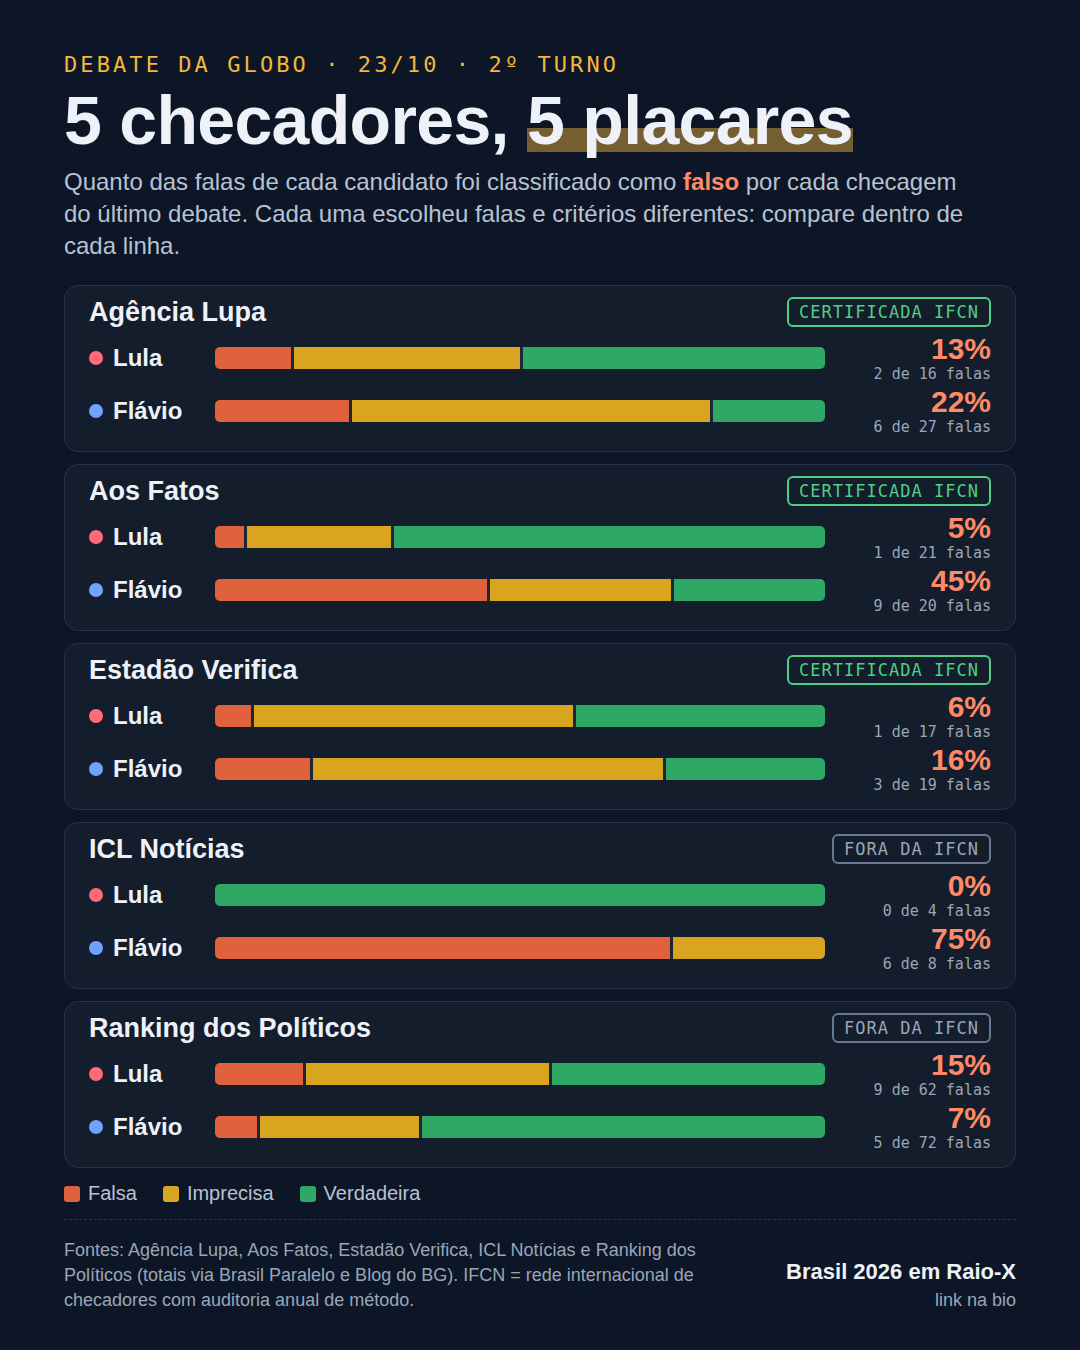
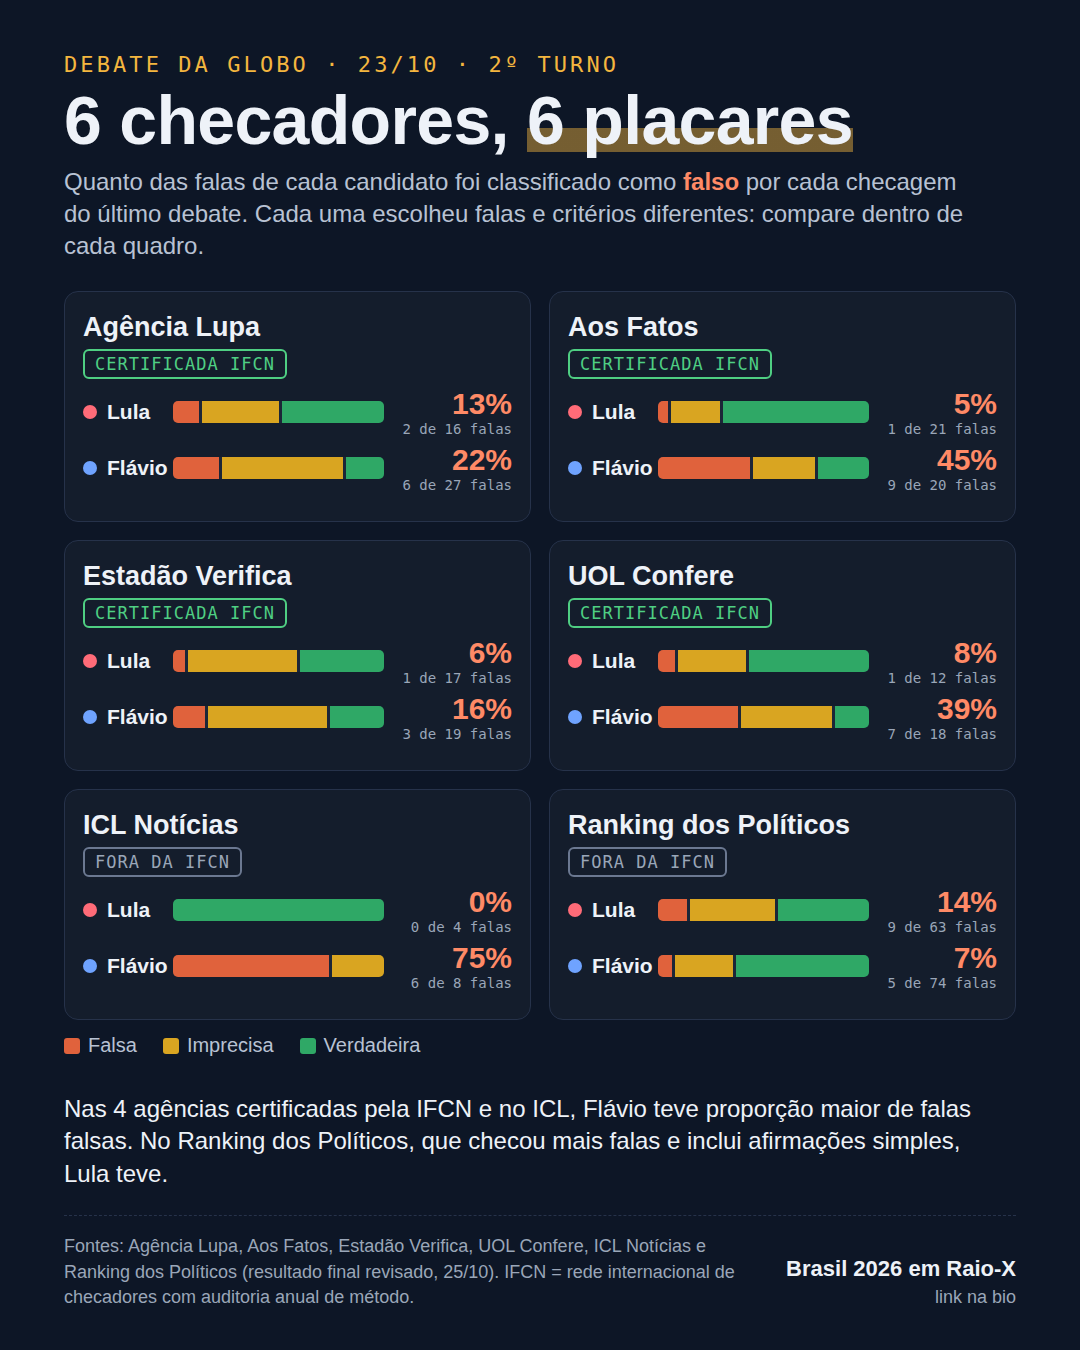
Comparação de checadores: inclui UOL Confere e placar final revisado do Ranking
Claude-Session: https://claude.ai/code/session_01Q44rKJupnzX5HpGh6p6EQf

diff --git a/brasil-2026/index.html b/brasil-2026/index.html
@@ -1415,13 +1415,14 @@ const CX=[
  {nm:"Agência Lupa",tag:"IFCN",ok:1,url:"https://www.agencialupa.org/checagem/2026/10/23/ao-vivo-checagem-do-ultimo-debate-entre-lula-e-flavio-bolsonaro-no-segundo-turno/",d:"Selos próprios (falso, exagerado, falta contexto, insustentável…).",lula:[2,6,8],flavio:[6,16,5]},
  {nm:"Aos Fatos",tag:"IFCN",ok:1,url:"https://www.aosfatos.org/noticias/checamos-flavio-bolsonaro-lula-debate-globo/",d:"Classificação feita por este guia a partir do texto de cada checagem; 5 itens sem veredito claro ficaram de fora.",lula:[1,5,15],flavio:[9,6,5]},
  {nm:"Estadão Verifica",tag:"IFCN",ok:1,url:"https://www.estadao.com.br/estadao-verifica/",d:"Selos próprios (falso, enganoso, impreciso, exagerado, subestimado, falta contexto). 37 falas; 1 de Lula foi \"inconclusivo\" e ficou fora da conta.",lula:[1,9,7],flavio:[3,11,5]},
+ {nm:"UOL Confere",tag:"IFCN",ok:1,url:"https://noticias.uol.com.br/confere/",d:"Selos próprios (falso, enganoso, exagerado, subestimado, insustentável). Selecionou 12 falas de Lula e 18 de Flávio; placar reproduzido pela imprensa.",lula:[1,4,7],flavio:[7,8,3]},
  {nm:"ICL Notícias",tag:"Fora da IFCN",ok:0,url:"https://iclnoticias.com.br/comeca-o-debate-entre-lula-e-flavio-bolsonaro-com-checagem-do-icl-siga/",d:"Checagem ao vivo publicada no site do ICL. Amostra pequena: 12 falas.",lula:[0,0,4],flavio:[6,2,0]},
- {nm:"Ranking dos Políticos",tag:"Fora da IFCN",ok:0,url:"https://ranking.org.br/",d:"Totais divulgados pela organização e reproduzidos pela imprensa (Brasil Paralelo, Blog do BG). Checa um número bem maior de falas, inclusive afirmações simples.",lula:[9,25,28],flavio:[5,19,48]}
+ {nm:"Ranking dos Políticos",tag:"Fora da IFCN",ok:0,url:"https://ranking.org.br/artigos/checagem-debate-lula-flavio-bolsonaro-globo-2-turno-2026",d:"Resultado final divulgado pela organização após revisão (137 falas). Checa um número bem maior de falas, inclusive afirmações simples.",lula:[9,26,28],flavio:[5,21,48]}
 ];
 (function(){
  const bar=(k,nm,a)=>{const n=a[0]+a[1]+a[2],pc=x=>Math.round(100*x/n);return `<div class="cx-b"><span class="nm"><i style="background:var(--${k})"></i>${nm}</span><div class="fm-stack" role="img" aria-label="${nm}: ${a[0]} falsas, ${a[1]} imprecisas, ${a[2]} verdadeiras de ${n} falas checadas">${a[0]?`<span style="width:${100*a[0]/n}%;background:var(--risk)"></span>`:""}${a[1]?`<span style="width:${100*a[1]/n}%;background:var(--warn)"></span>`:""}${a[2]?`<span style="width:${100*a[2]/n}%;background:var(--ok)"></span>`:""}</div><span class="n"><b>${pc(a[0])}% falsas</b> · ${a[0]}/${a[1]}/${a[2]} de ${n}</span></div>`};
  $("#cxRows").innerHTML=CX.map(c=>`<div class="cx-row"><div class="cx-who"><b><a href="${c.url}" target="_blank" rel="noopener">${c.nm} ↗</a></b><span class="tag ${c.ok?"ok":""}">${c.tag}</span><small>${c.d}</small></div><div>${bar("lu","Lula",c.lula)}${bar("fl","Flávio",c.flavio)}</div></div>`).join("");
- $("#cxNote").innerHTML="Os números ao lado de cada barra seguem a ordem falsas/imprecisas/verdadeiras. As três agências certificadas pela IFCN (Lupa, Aos Fatos e Estadão Verifica) apontam proporção maior de falas falsas de Flávio. Entre os checadores fora da IFCN, o ICL vai na mesma direção, com amostra pequena, e o Ranking dos Políticos, que checou muito mais falas, aponta o inverso. O g1 Fato ou Fake e a rede de checagem em tempo real da Fenaj com a RNCD, Intercom e SBPJor também acompanharam o debate, mas não publicaram placar consolidado. A seção de checagens deste guia usa só agências da IFCN.";
+ $("#cxNote").innerHTML="Os números ao lado de cada barra seguem a ordem falsas/imprecisas/verdadeiras. As quatro agências certificadas pela IFCN (Lupa, Aos Fatos, Estadão Verifica e UOL Confere) apontam proporção maior de falas falsas de Flávio. Entre os checadores fora da IFCN, o ICL vai na mesma direção, com amostra pequena, e o Ranking dos Políticos, que checou muito mais falas, aponta o inverso. O g1 Fato ou Fake e a rede de checagem em tempo real da Fenaj com a RNCD, Intercom e SBPJor também acompanharam o debate, mas não publicaram placar consolidado. A seção de checagens deste guia usa só agências da IFCN.";
 })();
 fetch("checagens.json",{cache:"no-store"}).then(r=>{if(!r.ok)throw 0;return r.json()}).then(d=>{
  FK=(d.itens||[]).sort((a,b)=>String(b.data).localeCompare(String(a.data)));
